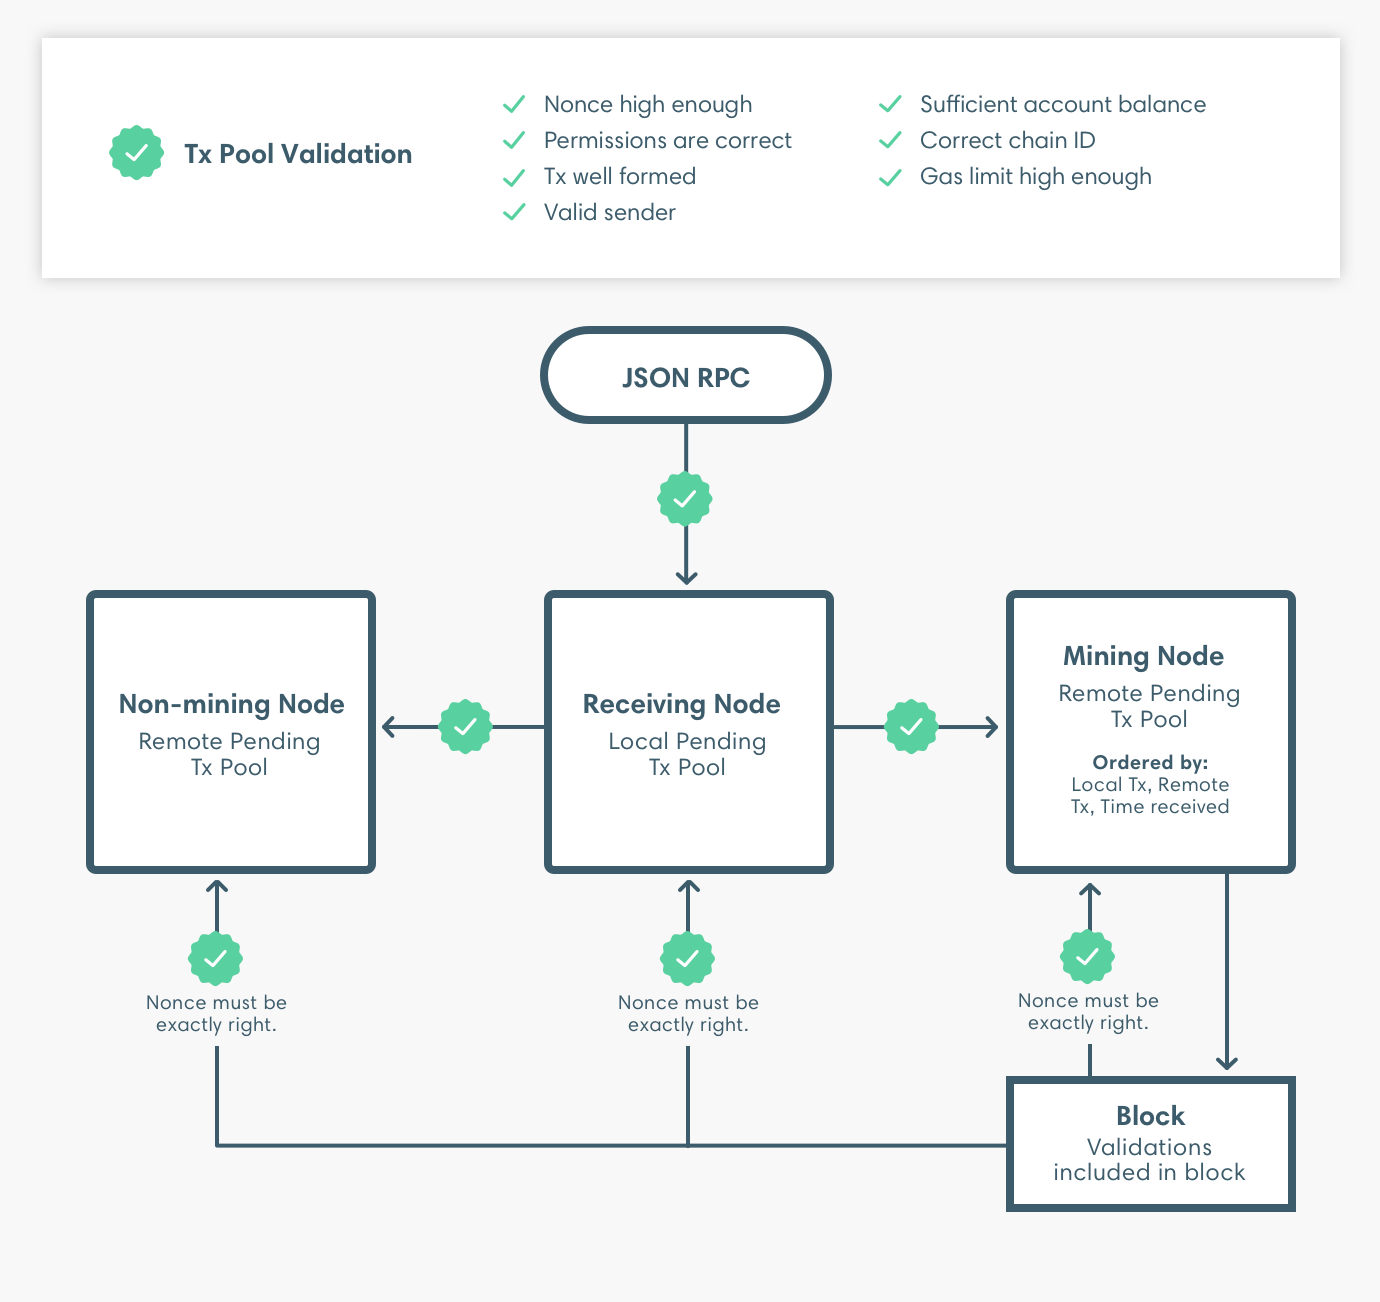
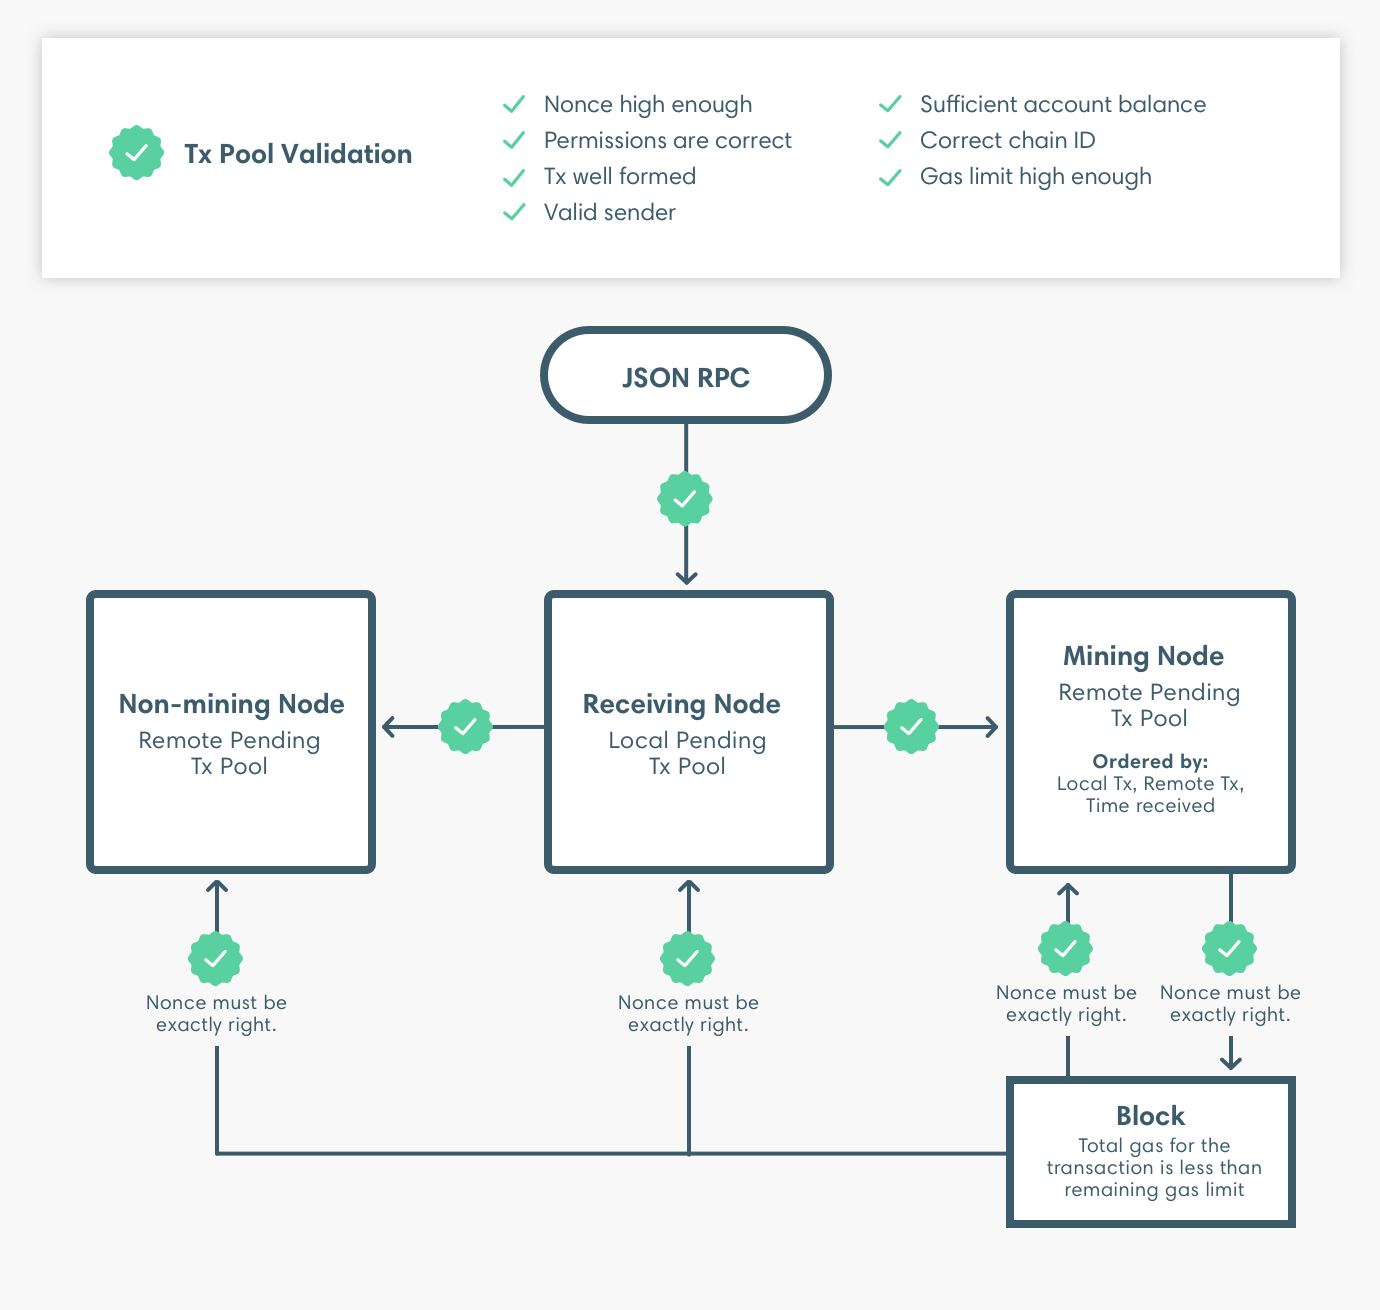
Added image

diff --git a/docs/Using-Pantheon/Transactions/Transaction-Validation.md b/docs/Using-Pantheon/Transactions/Transaction-Validation.md
@@ -7,8 +7,10 @@ When transactions are submitted and added to a block, validations are performed 
 
 ![Transaction Validation](../../images/transaction-validation.png)
 
-The set of transaction pool validation is repeated when the transaction is propagated. The same set of 
-validation is repeated when the block is imported except the nonce must be exactly right at this point. 
+The set of transaction pool validations are repeated when the transaction is propagated. The same set of 
+validations are repeated when the block including the transaction is imported except the nonce must be 
+exactly right when importing the block. 
 
-When the transaction is added to a block an additional validation to check the total gas for the transaction
-is less than the remaining gas limit for the block.  
+When the transaction is added to a block an additional validation is performed to check the total gas for the transaction
+is less than the remaining gas limit for the block. After creating a block, the node imports the block and
+the transaction pool validations are repeated. 
